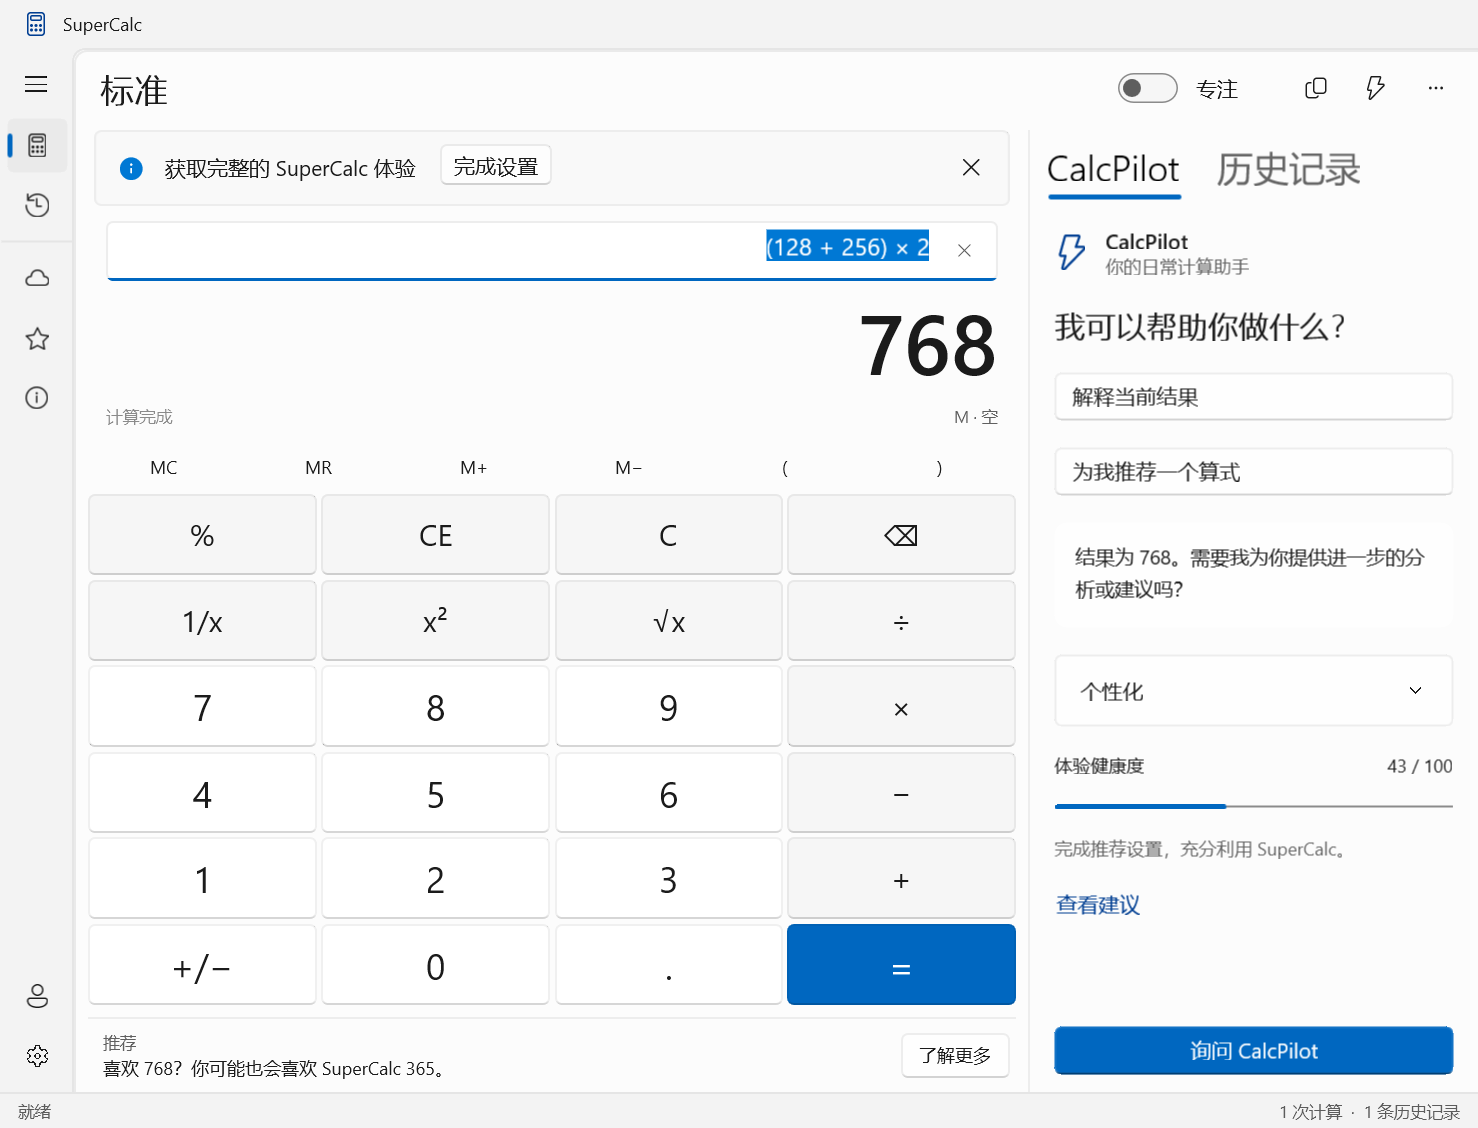
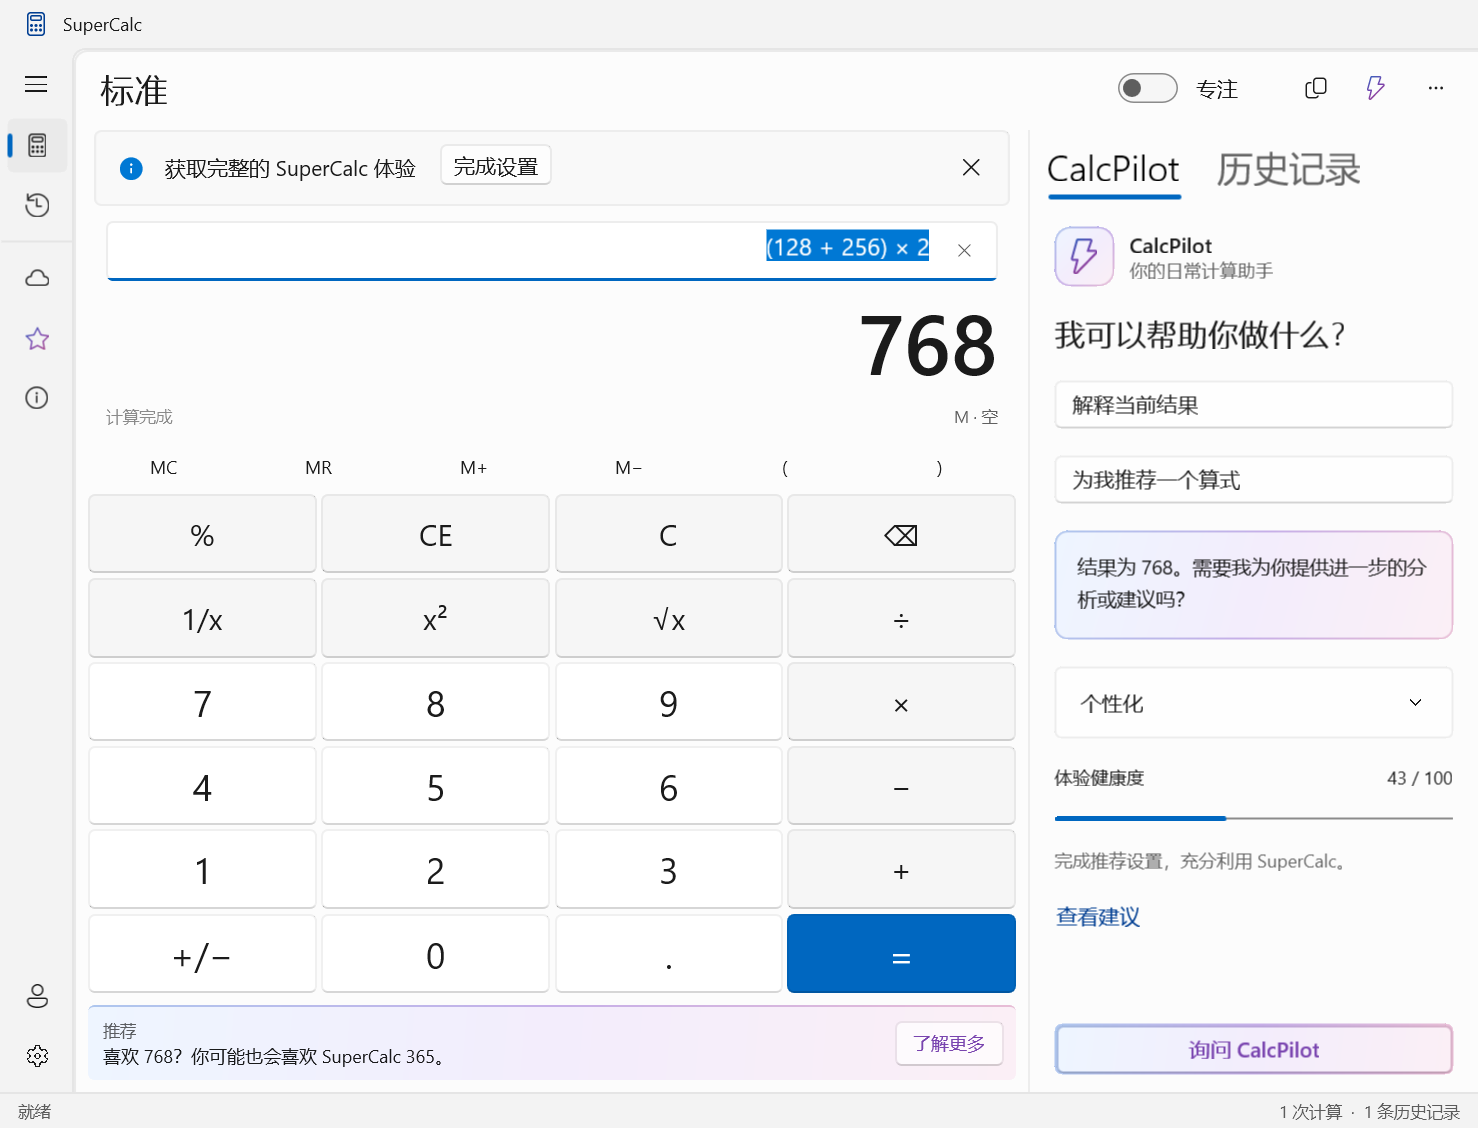
feature: add subtle gradient accents to CalcPilot and 365 offers

diff --git a/src/SuperCalc.App/MainWindow.xaml b/src/SuperCalc.App/MainWindow.xaml
@@ -14,7 +14,7 @@
     <NavigationViewItem x:Name="HistoryNav" Content="历史记录" Tag="history"><NavigationViewItem.Icon><FontIcon Glyph="&#xE81C;"/></NavigationViewItem.Icon></NavigationViewItem>
     <NavigationViewItemSeparator/>
     <NavigationViewItem Content="OneNumber" Tag="cloud"><NavigationViewItem.Icon><FontIcon Glyph="&#xE753;"/></NavigationViewItem.Icon></NavigationViewItem>
-    <NavigationViewItem Content="SuperCalc 365" Tag="premium"><NavigationViewItem.Icon><FontIcon Glyph="&#xE734;"/></NavigationViewItem.Icon></NavigationViewItem>
+    <NavigationViewItem Content="SuperCalc 365" Tag="premium"><NavigationViewItem.Icon><FontIcon Glyph="&#xE734;" Foreground="{ThemeResource PromoAccentBrush}"/></NavigationViewItem.Icon></NavigationViewItem>
     <NavigationViewItem x:Name="MuseumNav" Content="新增功能" Tag="museum"><NavigationViewItem.Icon><FontIcon Glyph="&#xE946;"/></NavigationViewItem.Icon></NavigationViewItem>
    </NavigationView.MenuItems>
    <NavigationView.FooterMenuItems>
@@ -28,7 +28,7 @@
      <StackPanel Grid.Column="1" Orientation="Horizontal" Spacing="8" VerticalAlignment="Center">
       <ToggleSwitch x:Name="FocusToggle" OffContent="专注" OnContent="专注" MinWidth="108" Toggled="Focus_Toggled" AutomationProperties.Name="专注模式"/>
       <Button Click="Copy_Click" Style="{StaticResource MemoryKey}" ToolTipService.ToolTip="复制结果" AutomationProperties.Name="复制结果"><FontIcon Glyph="&#xE8C8;" FontSize="16"/></Button>
-      <Button Click="Panel_Click" Style="{StaticResource MemoryKey}" ToolTipService.ToolTip="CalcPilot" AutomationProperties.Name="打开 CalcPilot"><FontIcon Glyph="&#xE945;" FontSize="16"/></Button>
+      <Button Click="Panel_Click" Style="{StaticResource MemoryKey}" ToolTipService.ToolTip="CalcPilot" AutomationProperties.Name="打开 CalcPilot"><FontIcon Glyph="&#xE945;" FontSize="16" Foreground="{ThemeResource PromoAccentBrush}"/></Button>
       <Button Content="&#xE712;" FontFamily="Segoe Fluent Icons" Click="More_Click" Style="{StaticResource MemoryKey}" AutomationProperties.Name="更多选项" ToolTipService.ToolTip="更多选项"/>
      </StackPanel>
     </Grid>
@@ -68,10 +68,10 @@
           <Button Grid.Row="5" Content="+/−" Style="{StaticResource Key}" Click="Unary_Click" Tag="negate"/><Button Grid.Row="5" Grid.Column="1" Content="0" Style="{StaticResource Key}" Click="Key_Click" Tag="0"/><Button Grid.Row="5" Grid.Column="2" Content="." Style="{StaticResource Key}" Click="Key_Click" Tag="."/><Button x:Name="EqualsButton" Grid.Row="5" Grid.Column="3" Content="=" Style="{StaticResource Key}" Background="{ThemeResource AccentFillColorDefaultBrush}" Foreground="{ThemeResource TextOnAccentFillColorPrimaryBrush}" Click="Equals_Click" AutomationProperties.Name="计算结果"/>
          </Grid>
       </Grid>
-      <Border x:Name="RecommendationCard" Grid.Row="2" BorderBrush="{ThemeResource DividerStrokeColorDefaultBrush}" BorderThickness="0,1,0,0" Padding="10,8,4,0" Margin="0,8,0,0">
+      <Border x:Name="RecommendationCard" Grid.Row="2" Background="{ThemeResource PromoSurfaceBrush}" BorderBrush="{ThemeResource PromoBorderBrush}" BorderThickness="0,1,0,0" Padding="10,8,8,8" Margin="0,8,0,0" CornerRadius="4">
        <Grid ColumnSpacing="10"><Grid.ColumnDefinitions><ColumnDefinition Width="*"/><ColumnDefinition Width="Auto"/></Grid.ColumnDefinitions>
         <StackPanel Spacing="2"><TextBlock Text="推荐" FontSize="11" Foreground="{ThemeResource TextFillColorSecondaryBrush}"/><TextBlock x:Name="RecommendationText" Text="使用 SuperCalc 365，发现更多计算可能。" TextTrimming="CharacterEllipsis" FontSize="12"/></StackPanel>
-        <Button Grid.Column="1" Content="了解更多" Click="Premium_Click" FontSize="12" VerticalAlignment="Center"/>
+        <Button Grid.Column="1" Content="了解更多" Click="Premium_Click" FontSize="12" VerticalAlignment="Center" Foreground="{ThemeResource PromoTextBrush}"/>
        </Grid>
       </Border>
      </Grid>
@@ -82,12 +82,12 @@
          <Grid.RowDefinitions><RowDefinition Height="*"/><RowDefinition Height="Auto"/></Grid.RowDefinitions>
          <ScrollViewer VerticalScrollBarVisibility="Auto">
           <StackPanel Spacing="18" Padding="4,12,4,12">
-           <StackPanel Orientation="Horizontal" Spacing="10"><FontIcon Glyph="&#xE945;" Foreground="{ThemeResource AccentTextFillColorPrimaryBrush}" FontSize="24"/><StackPanel><TextBlock Text="CalcPilot" FontWeight="SemiBold"/><TextBlock Text="你的日常计算助手" Style="{StaticResource SmallLabel}" TextWrapping="Wrap"/></StackPanel></StackPanel>
+           <StackPanel Orientation="Horizontal" Spacing="10"><Border Width="40" Height="40" CornerRadius="10" Background="{ThemeResource PromoSurfaceBrush}" BorderBrush="{ThemeResource PromoBorderBrush}" BorderThickness="1"><FontIcon Glyph="&#xE945;" Foreground="{ThemeResource PromoAccentBrush}" FontSize="24"/></Border><StackPanel VerticalAlignment="Center"><TextBlock Text="CalcPilot" FontWeight="SemiBold"/><TextBlock Text="你的日常计算助手" Style="{StaticResource SmallLabel}" TextWrapping="Wrap"/></StackPanel></StackPanel>
            <TextBlock Text="我可以帮助你做什么？" FontSize="20" FontWeight="SemiBold" TextWrapping="Wrap"/>
            <Button Content="解释当前结果" Click="Pilot_Click" HorizontalAlignment="Stretch" HorizontalContentAlignment="Left"/>
            <Button Content="为我推荐一个算式" Click="Recommendation_Click" HorizontalAlignment="Stretch" HorizontalContentAlignment="Left"/>
-           <Border Background="{ThemeResource CardBackgroundFillColorDefaultBrush}" CornerRadius="8" Padding="14">
-            <StackPanel Spacing="10"><TextBlock x:Name="PilotReply" Text="选择一个建议，或计算一个结果以开始。" TextWrapping="Wrap" FontSize="13" LineHeight="21"/><ProgressBar x:Name="ThinkingBar" IsIndeterminate="True" Visibility="Collapsed"/></StackPanel>
+           <Border Background="{ThemeResource PromoSurfaceBrush}" BorderBrush="{ThemeResource PromoBorderBrush}" BorderThickness="1" CornerRadius="8" Padding="14">
+            <StackPanel Spacing="10"><TextBlock x:Name="PilotReply" Text="选择一个建议，或计算一个结果以开始。" TextWrapping="Wrap" FontSize="13" LineHeight="21"/><ProgressBar x:Name="ThinkingBar" Foreground="{ThemeResource PromoAccentBrush}" IsIndeterminate="True" Visibility="Collapsed"/></StackPanel>
            </Border>
            <Expander Header="个性化" IsExpanded="False" HorizontalAlignment="Stretch"><ComboBox x:Name="ToneBox" Header="回答方式" SelectedIndex="0" HorizontalAlignment="Stretch"><ComboBoxItem Content="专业"/><ComboBoxItem Content="鼓舞人心"/><ComboBoxItem Content="商务"/></ComboBox></Expander>
            <Grid><TextBlock Text="体验健康度" FontSize="12"/><TextBlock x:Name="HealthScore" Text="42 / 100" HorizontalAlignment="Right" FontSize="12"/></Grid>
@@ -96,7 +96,7 @@
            <HyperlinkButton Content="查看建议" Click="Optimize_Click" Padding="0"/>
           </StackPanel>
          </ScrollViewer>
-         <Button Grid.Row="1" Content="询问 CalcPilot" Click="Pilot_Click" Style="{StaticResource AccentButtonStyle}" HorizontalAlignment="Stretch" Margin="4,10,4,0"/>
+         <Border Grid.Row="1" Background="{ThemeResource PromoBorderBrush}" Padding="1" CornerRadius="5" Margin="4,10,4,0"><Button Content="询问 CalcPilot" Click="Pilot_Click" Background="{ThemeResource PromoSurfaceBrush}" Foreground="{ThemeResource PromoTextBrush}" FontWeight="SemiBold" HorizontalAlignment="Stretch"/></Border>
         </Grid>
        </PivotItem>
        <PivotItem Header="历史记录">

diff --git a/src/SuperCalc.App/App.xaml b/src/SuperCalc.App/App.xaml
@@ -2,6 +2,27 @@
  <Application.Resources>
   <ResourceDictionary>
    <ResourceDictionary.MergedDictionaries><XamlControlsResources xmlns="using:Microsoft.UI.Xaml.Controls"/></ResourceDictionary.MergedDictionaries>
+   <ResourceDictionary.ThemeDictionaries>
+    <ResourceDictionary x:Key="Light">
+     <Color x:Key="PromoTintBlue">#EEF5FF</Color><Color x:Key="PromoTintPurple">#F3EDFC</Color><Color x:Key="PromoTintPink">#FBEFF6</Color>
+     <Color x:Key="PromoEdgeBlue">#AEC6EE</Color><Color x:Key="PromoEdgePurple">#C6AFE8</Color><Color x:Key="PromoEdgePink">#E8BDD5</Color>
+     <Color x:Key="PromoAccentBlue">#3266BE</Color><Color x:Key="PromoAccentPurple">#7944AF</Color><Color x:Key="PromoAccentPink">#AF4281</Color>
+    </ResourceDictionary>
+    <ResourceDictionary x:Key="Default">
+     <Color x:Key="PromoTintBlue">#232C40</Color><Color x:Key="PromoTintPurple">#32283E</Color><Color x:Key="PromoTintPink">#3B2936</Color>
+     <Color x:Key="PromoEdgeBlue">#526890</Color><Color x:Key="PromoEdgePurple">#796092</Color><Color x:Key="PromoEdgePink">#936582</Color>
+     <Color x:Key="PromoAccentBlue">#80B1FF</Color><Color x:Key="PromoAccentPurple">#BE97F5</Color><Color x:Key="PromoAccentPink">#EF9CCB</Color>
+    </ResourceDictionary>
+    <ResourceDictionary x:Key="HighContrast">
+     <StaticResource x:Key="PromoTintBlue" ResourceKey="SystemColorWindowColor"/><StaticResource x:Key="PromoTintPurple" ResourceKey="SystemColorWindowColor"/><StaticResource x:Key="PromoTintPink" ResourceKey="SystemColorWindowColor"/>
+     <StaticResource x:Key="PromoEdgeBlue" ResourceKey="SystemColorWindowTextColor"/><StaticResource x:Key="PromoEdgePurple" ResourceKey="SystemColorWindowTextColor"/><StaticResource x:Key="PromoEdgePink" ResourceKey="SystemColorWindowTextColor"/>
+     <StaticResource x:Key="PromoAccentBlue" ResourceKey="SystemColorWindowTextColor"/><StaticResource x:Key="PromoAccentPurple" ResourceKey="SystemColorWindowTextColor"/><StaticResource x:Key="PromoAccentPink" ResourceKey="SystemColorWindowTextColor"/>
+    </ResourceDictionary>
+   </ResourceDictionary.ThemeDictionaries>
+   <LinearGradientBrush x:Key="PromoSurfaceBrush" StartPoint="0,0" EndPoint="1,1"><GradientStop Color="{ThemeResource PromoTintBlue}" Offset="0"/><GradientStop Color="{ThemeResource PromoTintPurple}" Offset="0.5"/><GradientStop Color="{ThemeResource PromoTintPink}" Offset="1"/></LinearGradientBrush>
+   <LinearGradientBrush x:Key="PromoBorderBrush" StartPoint="0,0" EndPoint="1,1"><GradientStop Color="{ThemeResource PromoEdgeBlue}" Offset="0"/><GradientStop Color="{ThemeResource PromoEdgePurple}" Offset="0.5"/><GradientStop Color="{ThemeResource PromoEdgePink}" Offset="1"/></LinearGradientBrush>
+   <LinearGradientBrush x:Key="PromoAccentBrush" StartPoint="0,0" EndPoint="1,1"><GradientStop Color="{ThemeResource PromoAccentBlue}" Offset="0"/><GradientStop Color="{ThemeResource PromoAccentPurple}" Offset="0.5"/><GradientStop Color="{ThemeResource PromoAccentPink}" Offset="1"/></LinearGradientBrush>
+   <SolidColorBrush x:Key="PromoTextBrush" Color="{ThemeResource PromoAccentPurple}"/>
    <SolidColorBrush x:Key="MutedBrush" Color="#808080"/>
    <Style x:Key="Card" TargetType="Border">
     <Setter Property="Background" Value="{ThemeResource CardBackgroundFillColorDefaultBrush}"/><Setter Property="BorderBrush" Value="{ThemeResource CardStrokeColorDefaultBrush}"/>

diff --git a/src/SuperCalc.App/Controls/PremiumOffer.xaml b/src/SuperCalc.App/Controls/PremiumOffer.xaml
@@ -1,0 +1,14 @@
+<UserControl x:Class="SuperCalc.App.Controls.PremiumOffer" xmlns="http://schemas.microsoft.com/winfx/2006/xaml/presentation" xmlns:x="http://schemas.microsoft.com/winfx/2006/xaml">
+ <StackPanel Spacing="20" MaxWidth="440">
+  <Border Background="{ThemeResource PromoSurfaceBrush}" BorderBrush="{ThemeResource PromoBorderBrush}" BorderThickness="1" CornerRadius="8" Padding="20">
+   <StackPanel Spacing="12">
+    <FontIcon Glyph="&#xE734;" FontSize="32" Foreground="{ThemeResource PromoAccentBrush}" HorizontalAlignment="Left"/>
+    <TextBlock Text="SuperCalc 365" FontSize="26" FontWeight="SemiBold"/>
+    <TextBlock Text="你的下一个灵感，从这里开始。" TextWrapping="Wrap"/>
+    <StackPanel Orientation="Horizontal" Spacing="8"><TextBlock Text="¥ 0" FontSize="24" FontWeight="SemiBold" Foreground="{ThemeResource PromoTextBrush}"/><TextBlock Text="预览权益" VerticalAlignment="Center" Style="{StaticResource SmallLabel}"/></StackPanel>
+   </StackPanel>
+  </Border>
+  <StackPanel Spacing="12"><TextBlock Text="✓  个性化工作空间"/><TextBlock Text="✓  CalcPilot 回答方式"/><TextBlock Text="✓  增强结果管理"/></StackPanel>
+  <TextBlock Text="立即开始，让每一次计算更进一步。" TextWrapping="Wrap" Style="{StaticResource SmallLabel}"/>
+ </StackPanel>
+</UserControl>

diff --git a/src/SuperCalc.App/MainWindow.Smoke.cs b/src/SuperCalc.App/MainWindow.Smoke.cs
@@ -115,8 +115,10 @@ public sealed partial class MainWindow
             await Task.Delay(300);
             await Capture(Path.Combine(outputDirectory, "09-dark.png"));
             Check("Dark theme applies", Root.ActualTheme == ElementTheme.Dark);
+            await CapturePremiumOffer(Path.Combine(outputDirectory, "12-premium-dark.png"));
             Root.RequestedTheme = ElementTheme.Light;
             await Task.Delay(250);
+            await CapturePremiumOffer(Path.Combine(outputDirectory, "13-premium-light.png"));
             SideTabs.SelectedIndex = 1;
             Check("History is available beside the keypad", RecentItems.Children.Count > 0);
             await Capture(Path.Combine(outputDirectory, "10-side-history.png"));
@@ -127,6 +129,21 @@ public sealed partial class MainWindow
             File.WriteAllText(Path.Combine(outputDirectory, "results.json"), JsonSerializer.Serialize(new { success = false, checks, error = e.ToString() }, new JsonSerializerOptions { WriteIndented = true }));
         }
         finally { allowClose = true; CloseSafely(); }
+    }
+
+    private async Task CapturePremiumOffer(string path)
+    {
+        var dialog = new ContentDialog
+        {
+            XamlRoot = Root.XamlRoot, RequestedTheme = Root.ActualTheme,
+            Title = "使用 SuperCalc 365 做到更多", Content = new Controls.PremiumOffer(),
+            PrimaryButtonText = "开始使用", CloseButtonText = "暂时跳过",
+            DefaultButton = ContentDialogButton.Primary
+        };
+        var pending = dialog.ShowAsync();
+        await Task.Delay(250);
+        await Capture(path, dialog);
+        dialog.Hide(); await pending;
     }
 
     private async Task Capture(string path, FrameworkElement? target = null)

diff --git a/src/SuperCalc.App/MainWindow.xaml.cs b/src/SuperCalc.App/MainWindow.xaml.cs
@@ -416,7 +416,7 @@ public sealed partial class MainWindow : Window
     private async void Premium_Click(object sender, RoutedEventArgs e)
     {
         state.Ceremonies++;
-        if (await Dialog("使用 SuperCalc 365 做到更多", "你的下一个灵感，从这里开始。\n\n预览权益  ·  ¥ 0\n✓ 个性化工作空间\n✓ CalcPilot 回答方式\n✓ 增强结果管理\n\n立即开始，让每一次计算更进一步。", "开始使用", "暂时跳过") == ContentDialogResult.Primary)
+        if (await Dialog("使用 SuperCalc 365 做到更多", new Controls.PremiumOffer(), "开始使用", "暂时跳过") == ContentDialogResult.Primary)
         { state.PremiumPretend = true; Notify("欢迎使用 SuperCalc 365", "你的预览权益已启用。", InfoBarSeverity.Success); }
         Save();
     }

diff --git a/src/SuperCalc.App/Controls/PremiumOffer.xaml.cs b/src/SuperCalc.App/Controls/PremiumOffer.xaml.cs
@@ -1,0 +1,8 @@
+using Microsoft.UI.Xaml.Controls;
+
+namespace SuperCalc.App.Controls;
+
+public sealed partial class PremiumOffer : UserControl
+{
+    public PremiumOffer() => InitializeComponent();
+}

diff --git a/docs/native-ui-review.md b/docs/native-ui-review.md
@@ -33,6 +33,14 @@
 
 ## 修改后
 
+### AI 与权益入口的颜色引导
+
+参考 [Microsoft Design：Behind the design — Meet Copilot](https://microsoft.design/articles/behind-the-design-meet-copilot/) 中关于品牌色和鲜明点缀用于区分 AI 交互的说明，为 CalcPilot 图标、回答区域、提问按钮，以及 365 推荐栏和权益弹窗加入低饱和蓝—紫—粉渐变。使用原生 XAML 渐变画刷、细描边和主题资源，保持计算键盘的系统配色。浅色和深色分别配置底色；高对比度资源回退为系统窗口与文字颜色（未切换系统高对比度模式做实机验证）。
+
+已重新构建并通过 27 项应用集成检查，复核两种主题的主界面与权益弹窗截图。
+
+[浅色权益弹窗](images/premium-light.png) · [深色权益弹窗](images/premium-dark.png)
+
 ![修改后](images/calculator.png)
 
 ![小窗口](images/compact.png)
